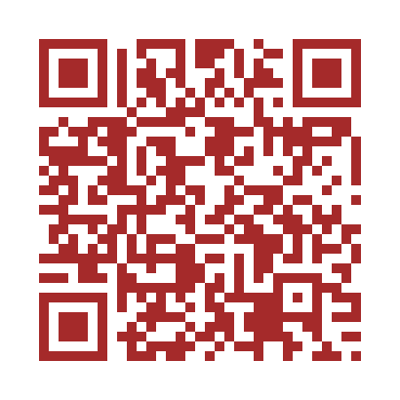
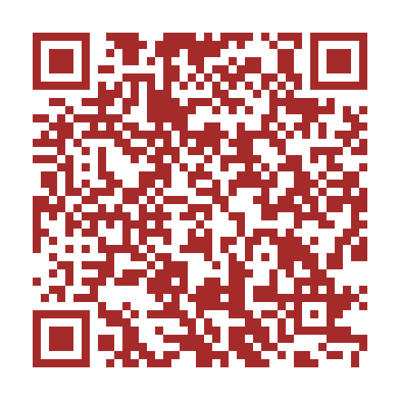
Update deployment files

diff --git a/部署步骤.md b/部署步骤.md
@@ -1,0 +1,74 @@
+# 彭城七里徐州旅游攻略 - GitHub Pages 部署步骤
+
+## 📍 你当前状态
+✅ 代码已提交到本地 Git 仓库
+✅ 已连接到 GitHub 仓库
+✅ 已打开 GitHub Pages 设置页面
+
+## 🚀 立即部署（3步完成）
+
+### 第一步：推送代码到 GitHub
+在 CMD 或 PowerShell 中执行：
+```bash
+cd e:\彭城七里徐州旅游攻略
+git push origin master
+```
+
+**如果提示需要认证：**
+1. 打开 https://github.com/settings/tokens
+2. 点击 "Generate new token (classic)"
+3. 勾选 `repo` 权限
+4. 点击 "Generate token"（底部）
+5. 复制令牌
+6. 推送时：
+   - 用户名：`zxz716604-sys`
+   - 密码：粘贴刚才复制的令牌
+
+### 第二步：在已打开的页面点击 Save
+你已经在 GitHub Pages 设置页面了！
+- 确认 **Source** 选择的是 **master** 分支
+- 点击 **Save** 按钮
+
+### 第三步：等待1-2分钟
+部署完成后，你的网站地址是：
+```
+https://zxz716604-sys.github.io/pengcheng-travel/
+```
+
+---
+
+## 📱 用微信扫描访问
+
+部署成功后，用微信扫描项目文件夹中的：
+- **微信访问二维码.png**（需要更新）
+- 或扫描下面这个二维码
+
+二维码图片已生成在：`e:\彭城七里徐州旅游攻略\GitHub Pages二维码.png`
+
+---
+
+## ✅ 验证部署成功
+
+访问以下链接确认：
+```
+https://zxz716604-sys.github.io/pengcheng-travel/
+```
+
+应该能看到彭城七里徐州旅游攻略的完整页面。
+
+---
+
+## 🔄 更新网站
+
+以后修改代码后，只需执行：
+```bash
+git add .
+git commit -m "更新说明"
+git push origin master
+```
+
+GitHub Pages 会自动更新！
+
+---
+
+**需要帮助？** 如果推送失败，请告诉我错误信息。

diff --git a/手动部署步骤.md b/手动部署步骤.md
@@ -1,0 +1,53 @@
+# 彭城七里徐州旅游攻略 - 手动部署 GitHub Pages
+
+## ⚠ 当前状态
+- ✅ 代码已提交到本地 Git 仓库
+- ✅ 已连接到 GitHub 仓库
+- ⚠ 网络连接到 GitHub 失败（需要你在网络正常时操作）
+
+## 📋 手动部署步骤
+
+### 第一步：打开 CMD 或 PowerShell
+按 `Win + R`，输入 `cmd`，回车
+
+### 第二步：进入项目目录
+```bash
+cd e:\彭城七里徐州旅游攻略
+```
+
+### 第三步：推送代码到 GitHub
+```bash
+git push origin master
+```
+
+**如果提示需要认证：**
+1. 用户名：`zxz716604-sys`
+2. 密码：点击 https://github.com/settings/tokens 生成 Personal Access Token
+   - 勾选 `repo` 权限
+   - 点击 "Generate token"
+   - 复制令牌作为密码使用
+
+### 第四步：开启 GitHub Pages
+1. 打开你已经找到的页面：
+   ```
+   https://github.com/zxz716604-sys/pengcheng-travel/settings/pages
+   ```
+2. 在 **Source** 下选择 **master** 分支
+3. 点击 **Save**
+4. 等待 1-2 分钟
+
+### 第五步：访问网站
+部署成功后访问：
+```
+https://zxz716604-sys.github.io/pengcheng-travel/
+```
+
+## 📱 用微信访问
+用微信扫描项目文件夹中的 `微信访问二维码.png`
+
+## ✅ 验证成功
+在浏览器打开上面的链接，应该能看到彭城七里徐州旅游攻略的完整页面。
+
+---
+
+**注意：** 你需要确保电脑网络连接正常，能够访问 https://github.com
